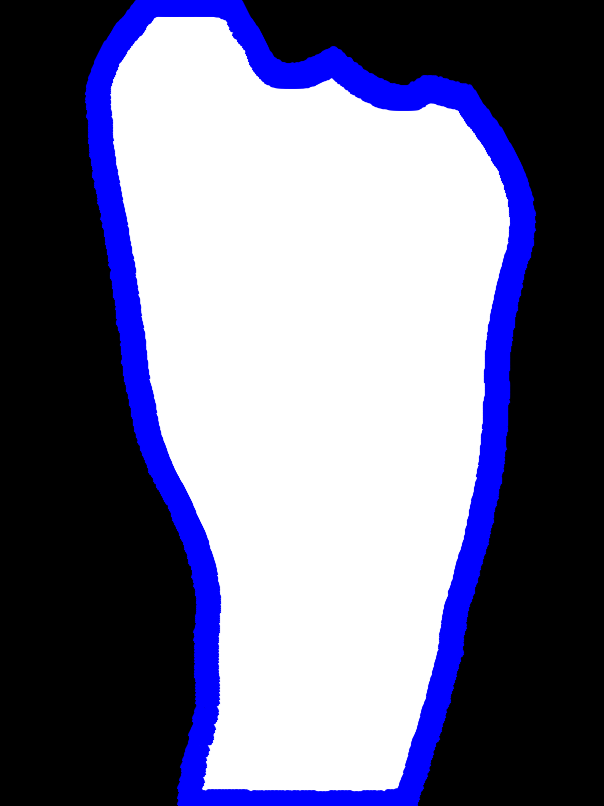
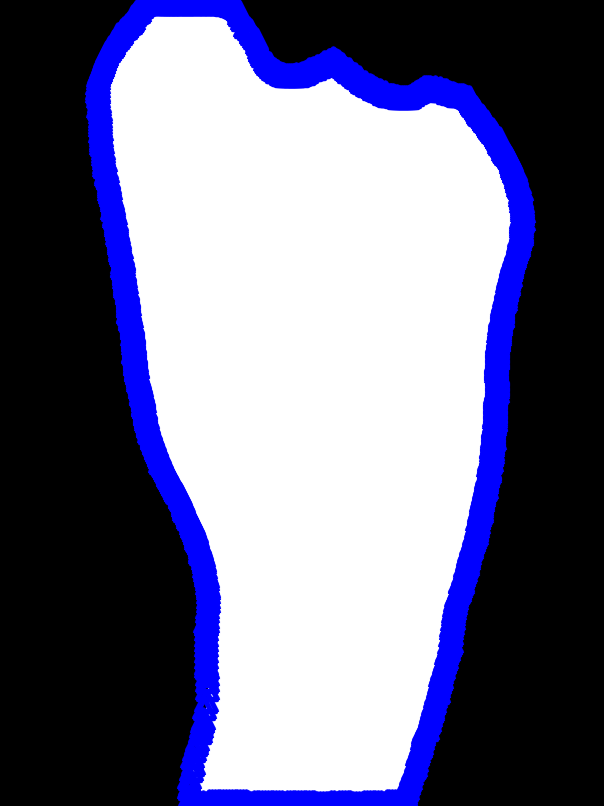
added first correctly computed (transformed) image

Changed region(s): [[0.2682, 0.9926, 0.298, 1.0]]

diff --git a/Deformation_Matching/polar_line_estimation.py b/Deformation_Matching/polar_line_estimation.py
@@ -66,7 +66,7 @@ def compute_polar_line(mask, center, saveFile, showprocess=False, save=True):
     singled_mask = mask[:,:,0].squeeze().copy()
 
     # Test 360 "rays" for each mask
-    numrays = 2000 # [1,360)
+    numrays = 1000 # [1,360)
     moveby = 1
 
     outline = []
@@ -166,8 +166,8 @@ def deform_image(img2, center, m1_edge_pts, m2_edge_pts, fileName):
     start = time.perf_counter()
     new_img2 = img2.copy()
 
-    stepsize = 25
-    kernel_width = 10
+    stepsize = 1
+    kernel_width = 5
 
     # Iterate over all angle copies saved
     assert len(m1_edge_pts) == len(m2_edge_pts)
